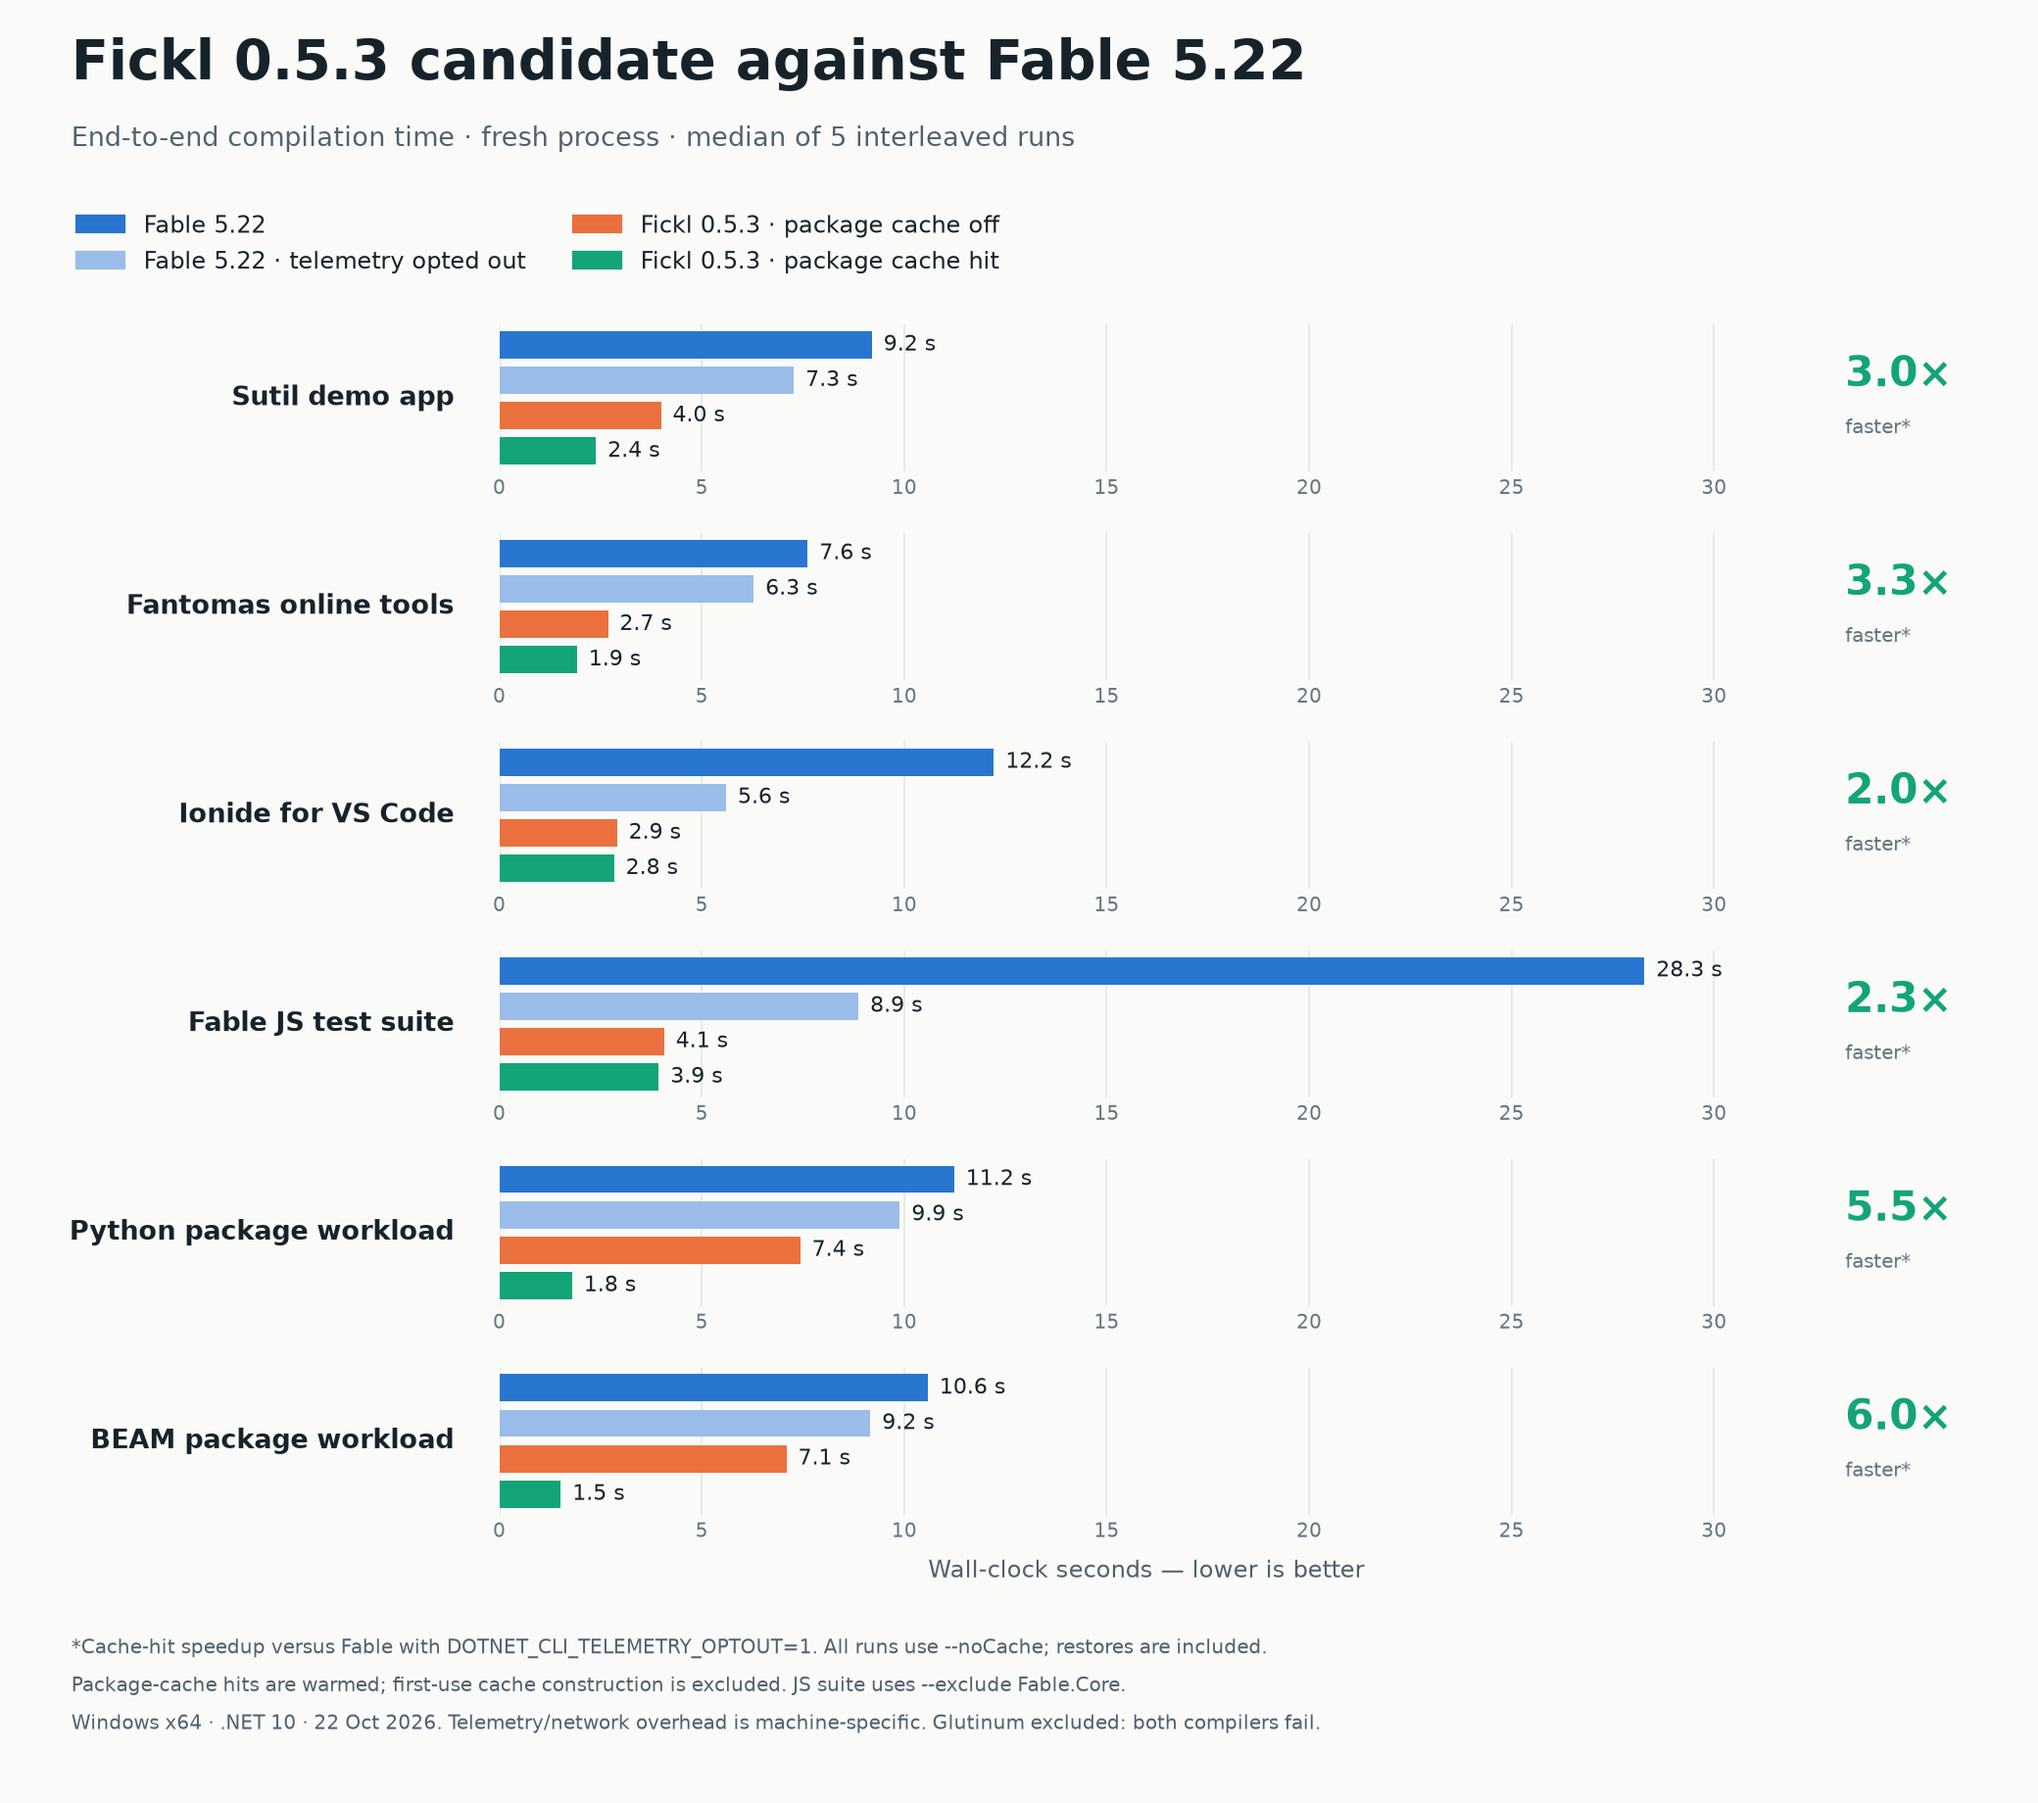
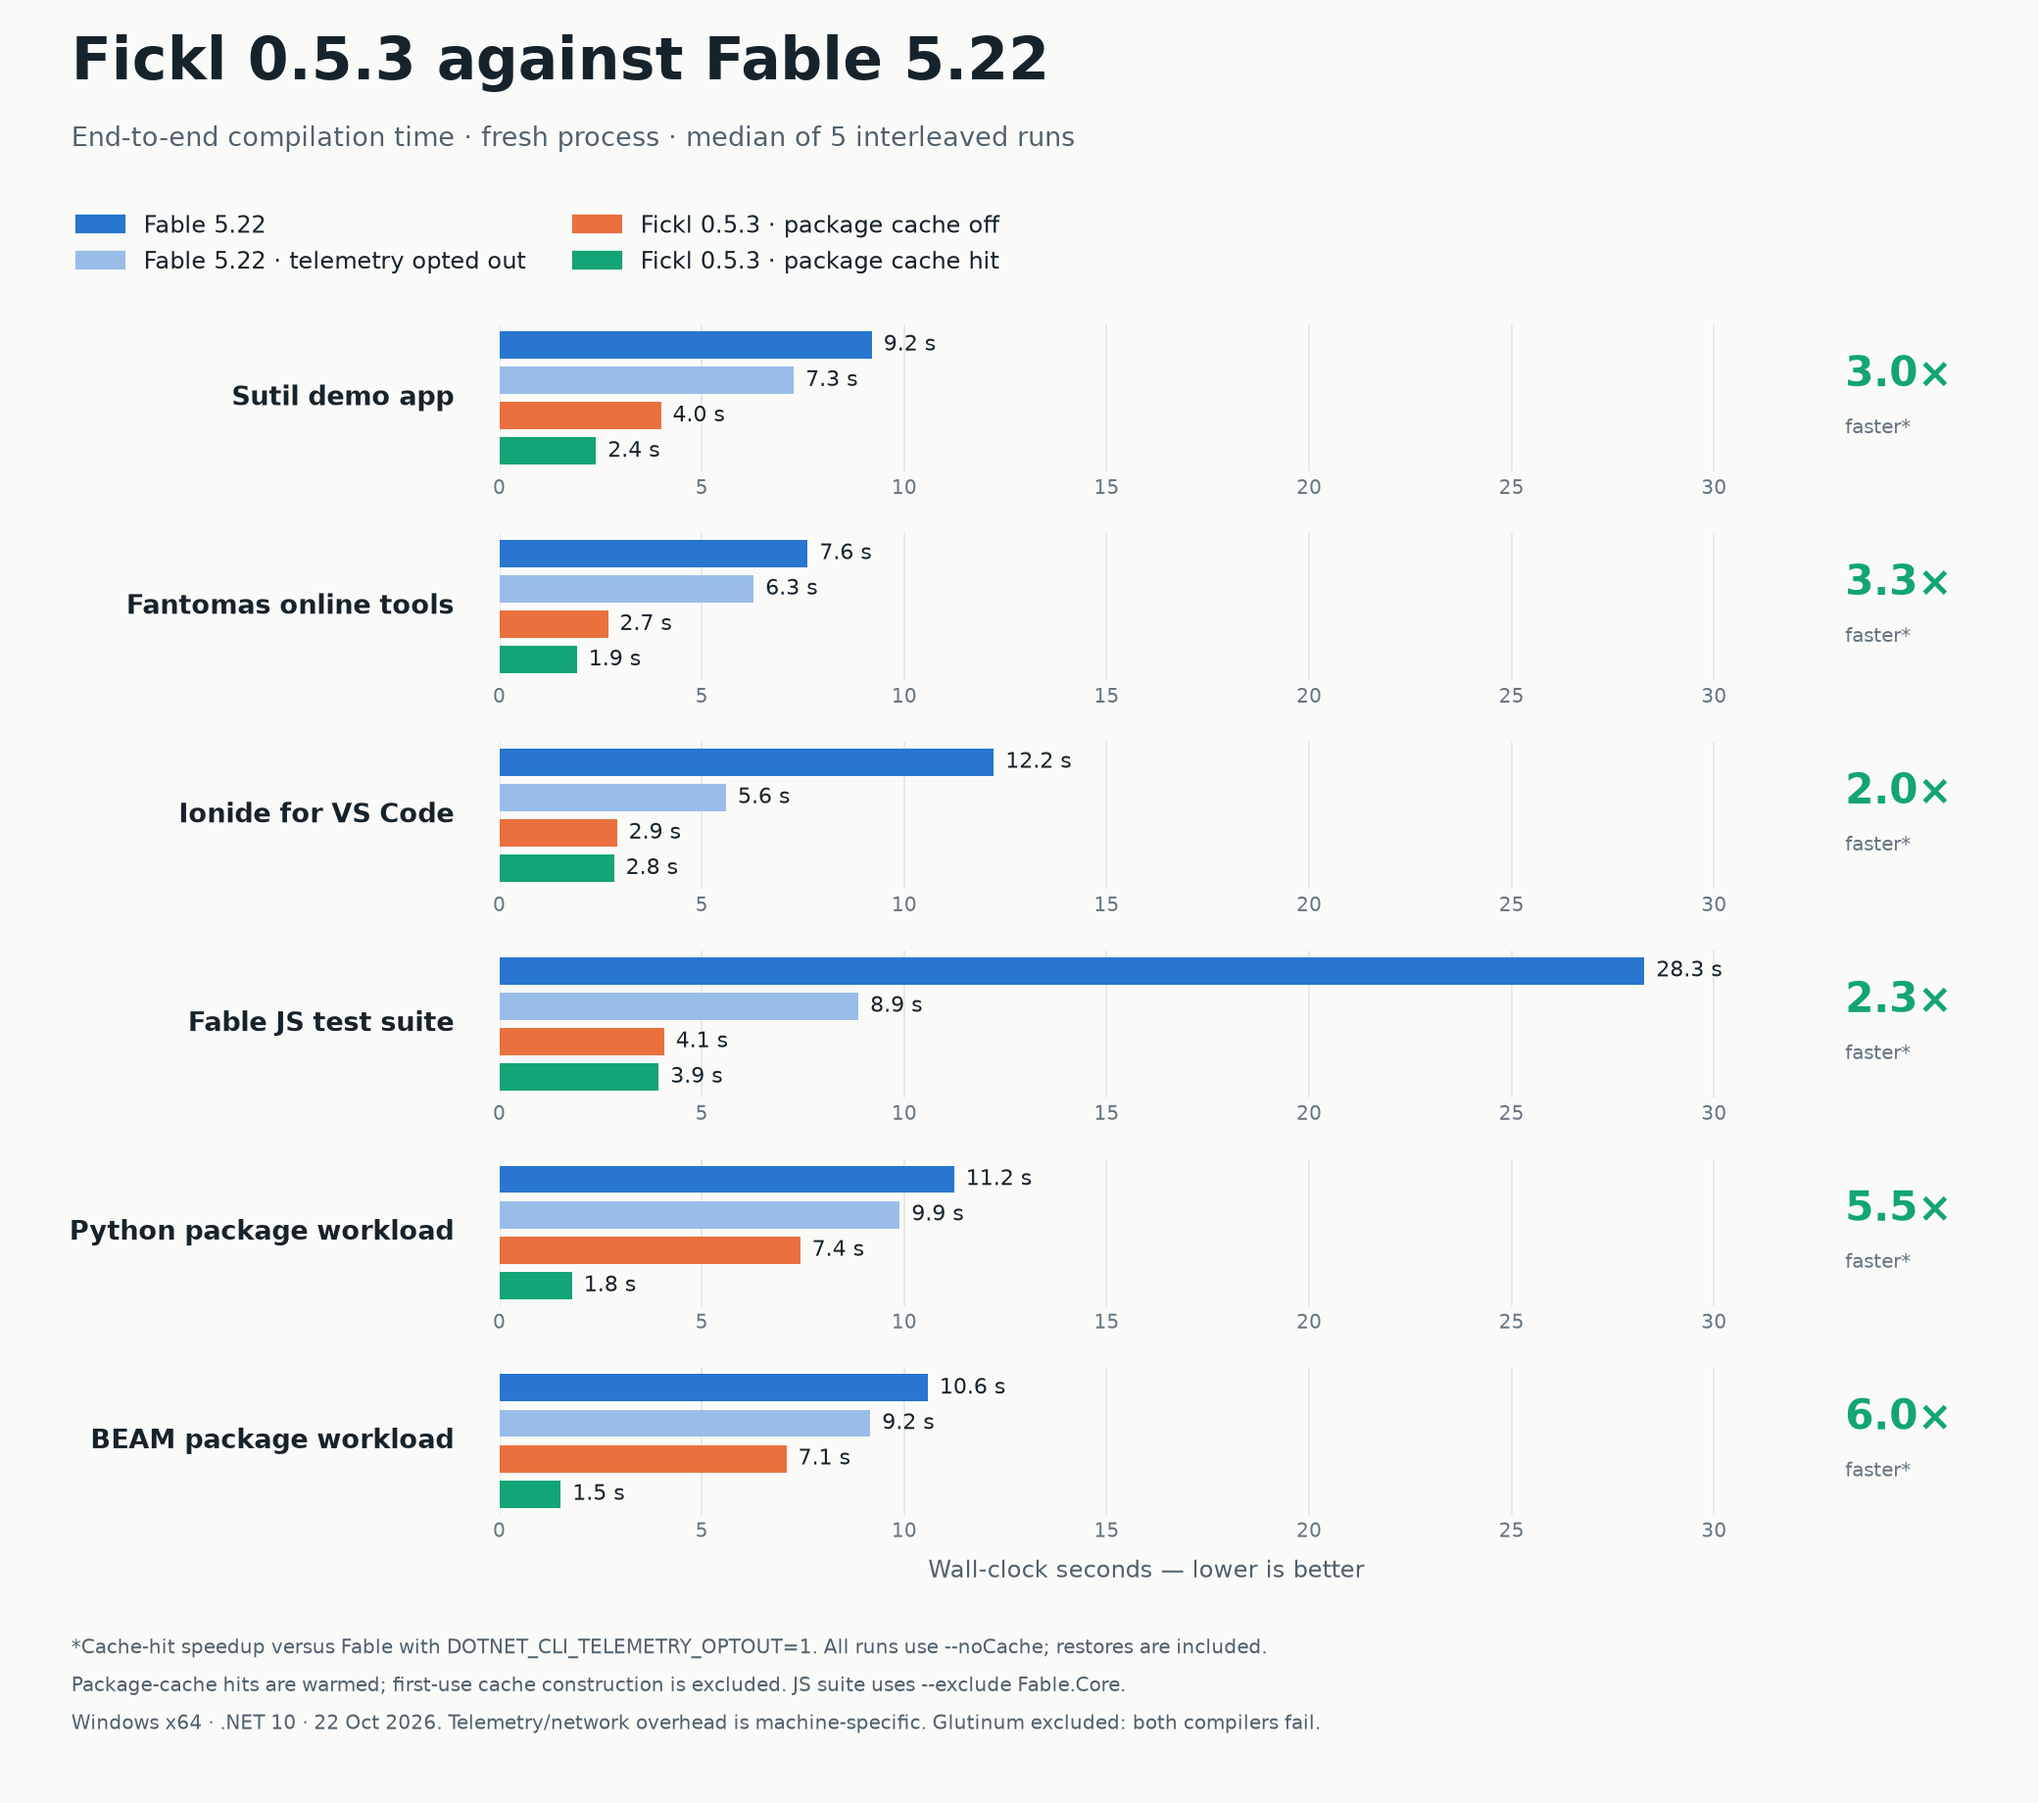
docs: record Fickl 0.5.3 publication

Changed region(s): [[0.0312, 0.0, 0.6562, 0.062]]

diff --git a/notes/benchmarks/plot-0.5.3.py b/notes/benchmarks/plot-0.5.3.py
@@ -37,7 +37,7 @@ plt.rcParams.update(
 fig, axes = plt.subplots(6, 1, figsize=(13, 11.5))
 fig.patch.set_facecolor("#fafbf9")
 fig.subplots_adjust(top=0.82, bottom=0.16, left=0.245, right=0.88, hspace=0.42)
-fig.text(0.035, 0.956, "Fickl 0.5.3 candidate against Fable 5.22", fontsize=25, fontweight="bold")
+fig.text(0.035, 0.956, "Fickl 0.5.3 against Fable 5.22", fontsize=27, fontweight="bold")
 fig.text(
     0.035,
     0.919,

diff --git a/notes/perf-frontiers.md b/notes/perf-frontiers.md
@@ -20,19 +20,20 @@ every tool runtime package is checked for all bundled language libraries. Compan
 the tool pointer package. Compiler symbols are embedded; its empty separate symbol archive is not pushed.
 
 The initial 0.5.2 release incorrectly applied the package version to companion assembly versions, which
-broke existing Feliz plugins. The local 0.5.3 correction preserves those assembly identities and restores
+broke existing Feliz plugins. The published 0.5.3 correction preserves those assembly identities and restores
 the missing Rust and Dart runtime payloads. Validation includes 141 compiler tests, the assembly-qualified
 AST reference used by older plugins, a consumer of all four companion packages, and a Fantomas tools
 compile using its existing Feliz plugins. Fickl.Core is the separate `src/Fickl.Core` project containing
 Fickl-specific attributes, not a renamed Fable.Core package; its consumer check resolves
 `Fickl.Core.CaseTestAttribute`. The mistaken rename in 0.5.2 also caused duplicate project identities when
-restoring the JS suite. Publication of the corrective release is pending.
+restoring the JS suite. All 13 corrected packages were published on 2026-10-22. NuGet rejected the
+publishing key's unlist request with HTTP 403; 0.5.2 remains listed by the maintainer's decision.
 
 Runtime sweeps use cold `--noCache` runs, configurations interleaved, 4–5 runs each, and compare the compile phase
 ("Fable compilation finished in"), which excludes project cracking. Glutinum's compile times range 4.2–6.8 s within one
 configuration, so it is not used to rank settings; the JS test suite stays within ±0.2 s.
 
-## End to end against upstream (Fickl 0.5.3 candidate, 2026-10-22)
+## End to end against upstream (Fickl 0.5.3, 2026-10-22)
 
 [Comparison image](benchmarks/fickl-0.5.3.png), [raw timings](benchmarks/fickl-0.5.3.csv),
 [package hashes and environment](benchmarks/fickl-0.5.3-manifest.json). Wall clock from process start to exit,
